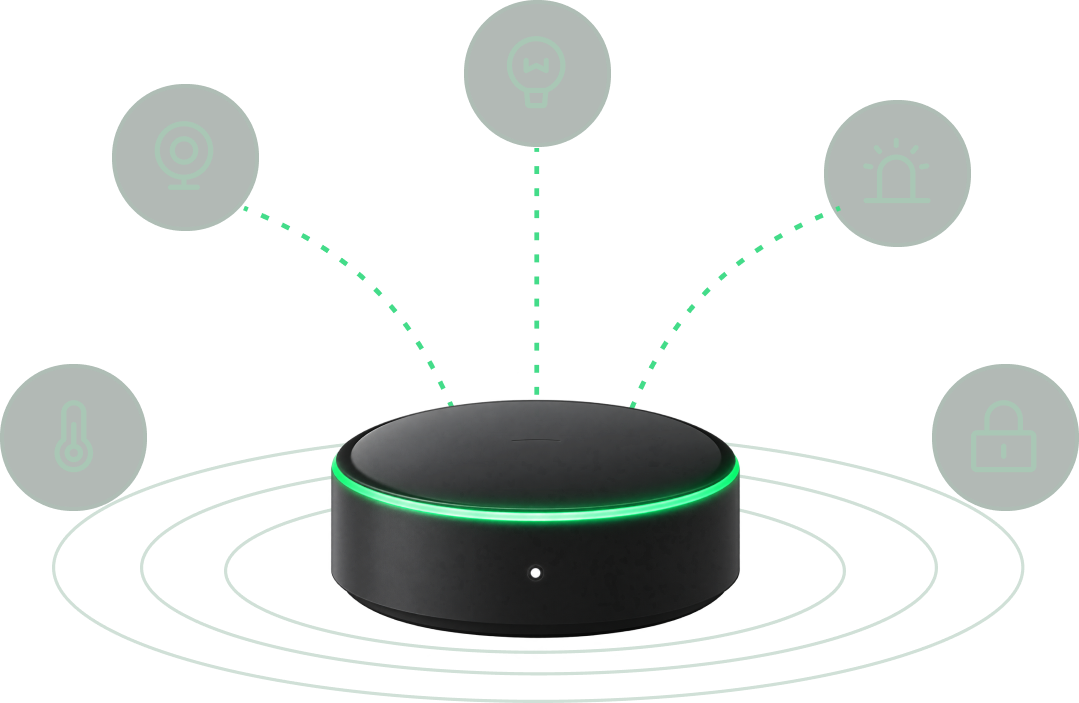
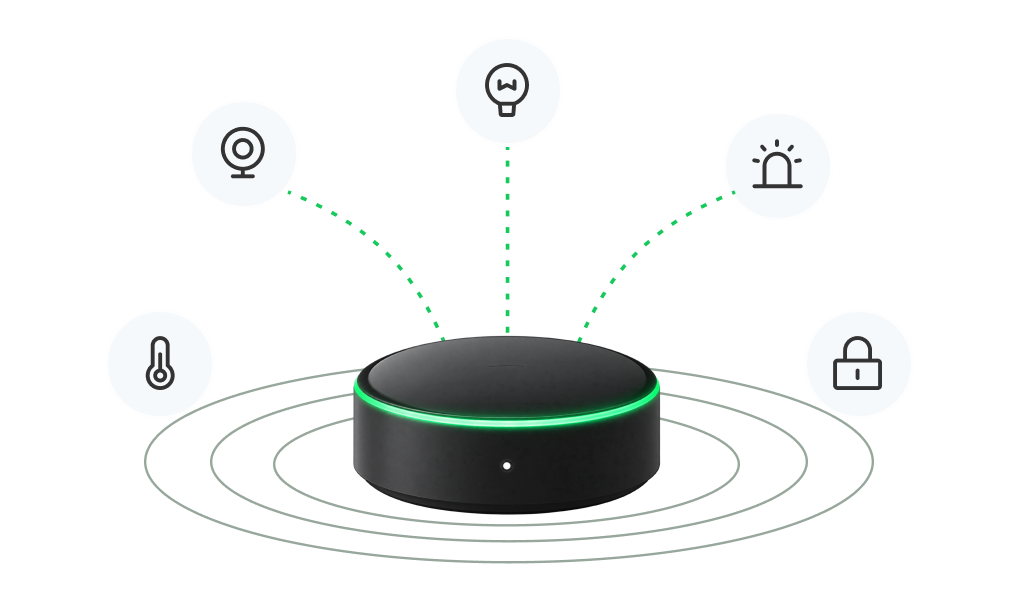
修复开屏抖动与暗色空态插画错位
- 开屏：系统预览窗画的居中放大 logo 与 SplashPage 设计位
  尺寸/位置都不同，交接处抖一下。应用级覆盖 Maui.SplashTheme
  （windowDisablePreview + 纯绿 windowBackground），logo 只由
  SplashPage 展示一次，实测逐帧零漂移。
- 暗色空态插画：此前按内容 bbox 裁边后重排，相对亮色素材
  （339x205 整卡画布、设计坐标 x3）缩放 17% 并整体上移，
  节点图标偏高、机身比例不对。重建为 1017x615 同画布同坐标，
  实测灯节点与设计差 0.5px。

diff --git a/SplashPage.xaml b/SplashPage.xaml
@@ -1,7 +1,7 @@
 <?xml version="1.0" encoding="utf-8" ?>
 <!-- 开屏页 · Figma 246:362 "开屏页面"（375x812）
      底色 #16c95c + 白色 logo-faithful（246:356 导出 128x138 @123,267），无 slogan。
-     系统启动屏（MauiSplashScreen）同款底色 + 同一 logo。 -->
+     系统预览窗已在 styles.xml 关闭（windowDisablePreview），logo 只在此页展示一次。 -->
 <ContentPage xmlns="http://schemas.microsoft.com/dotnet/2021/maui"
              xmlns:x="http://schemas.microsoft.com/winfx/2009/xaml"
              x:Class="BluetoothMauiApp.SplashPage"
